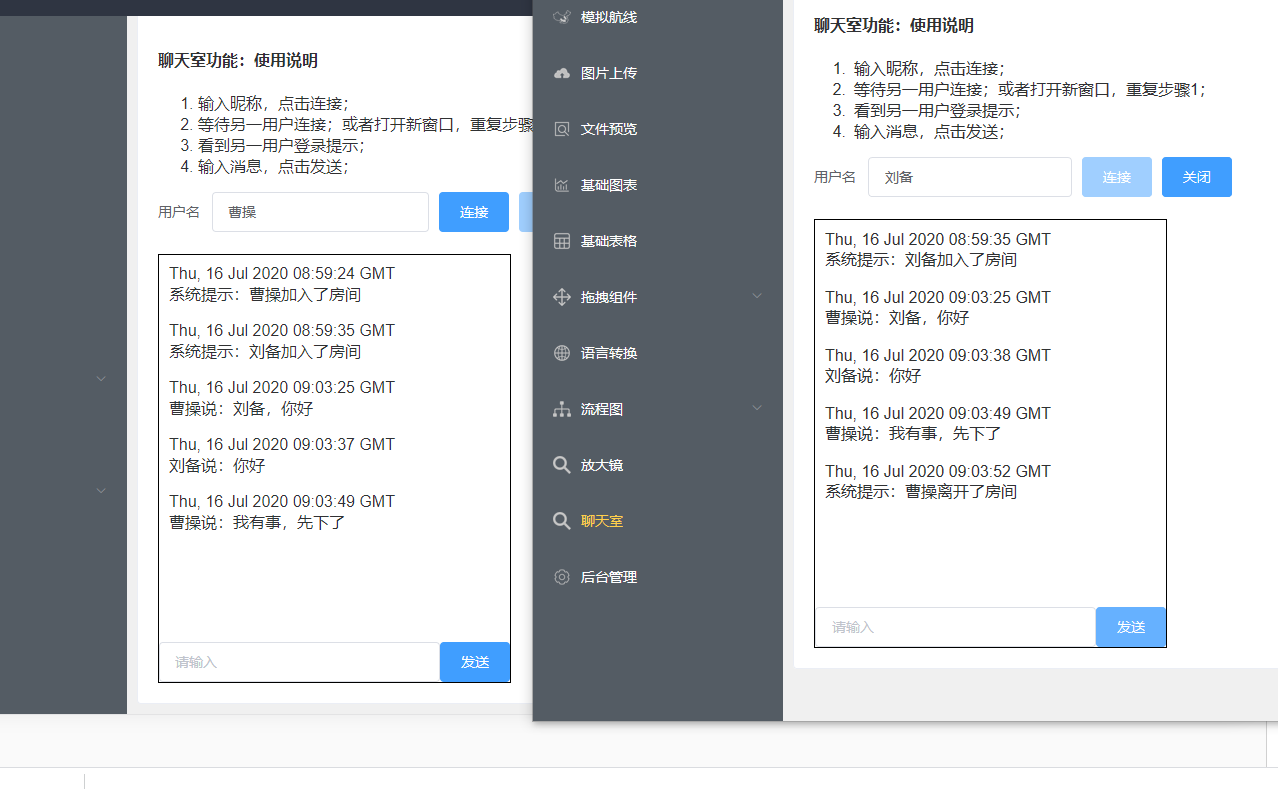
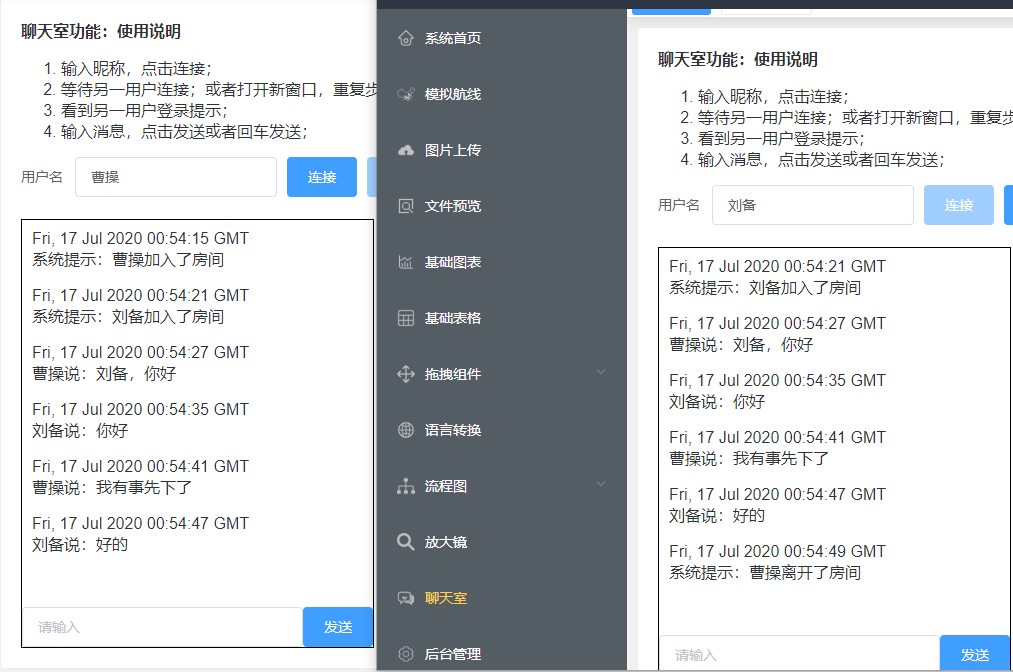
更好图片

diff --git a/src/views/chatRoom.vue b/src/views/chatRoom.vue
@@ -32,7 +32,7 @@
         </div>
       </div>
     </el-card>
-    <el-dialog title="效果图" :visible.sync="dialogVisible" width="90%" top="2vh">
+    <el-dialog title="效果图" :visible.sync="dialogVisible" width="90%" top="2vh" class="chatDialog">
       <img src="@/assets/images/home/chatShow.png" />
     </el-dialog>
   </section>
@@ -97,7 +97,7 @@ export default {
     },
     send() {
       if (!this.connectFlag) {
-        this.$toast.fail("请先连接");
+        this.$message.error("请先连接");
       }
       if (this.msg == "") return;
       let message = {
@@ -142,5 +142,11 @@ img {
 .chart-button {
   display: inline-flex;
   width: 100%;
+}
+.chatDialog {
+  .el-dialog__body {
+    height: 76vh;
+    overflow: auto;
+  }
 }
 </style>

diff --git a/src/js/ws.js b/src/js/ws.js
@@ -1,7 +1,17 @@
 export default {
     websocketFun(params) {
-        const baseUrl = "ws://127.0.0.1:3999";
-        // const baseUrl = "wss://wss.cwjbjy.online";
+        const env = process.env.NODE_ENV;
+        let baseUrl = "";
+        switch (env) {
+            case "development":
+                baseUrl = "ws://127.0.0.1:3999";
+                break;
+            case "production":
+                baseUrl = "wss://wss.cwjbjy.online";
+                break;
+            default:
+                break;
+        }
         let ws = new WebSocket(baseUrl);
         ws.onclose = function () {
             console.error("web channel closed");
